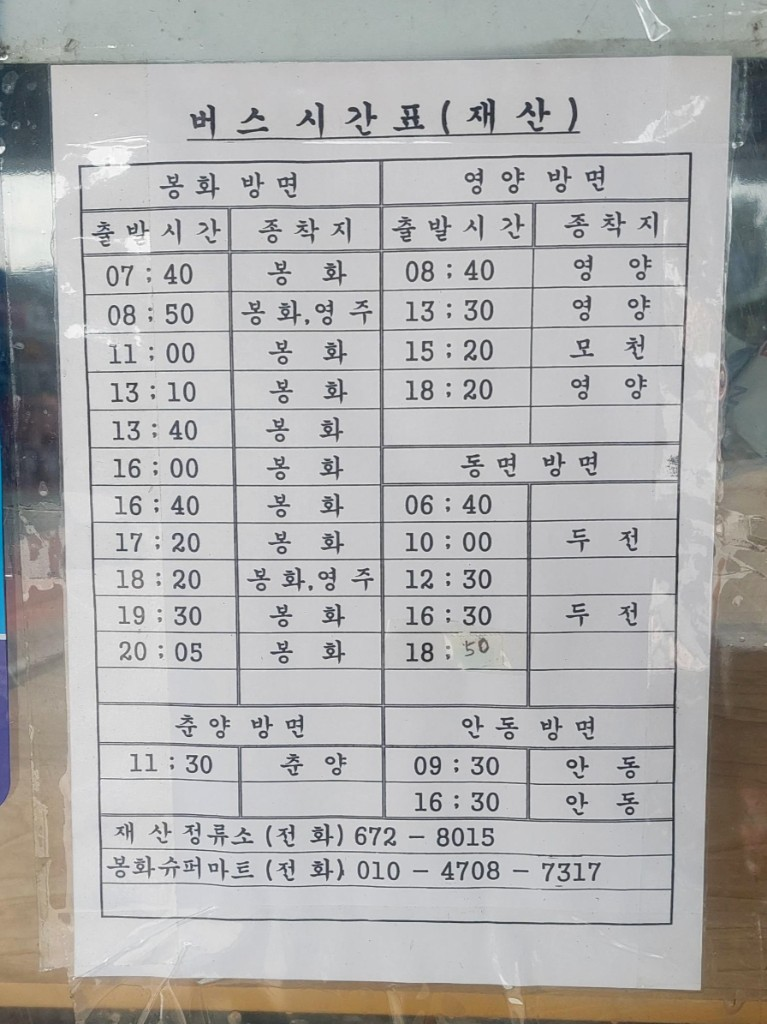
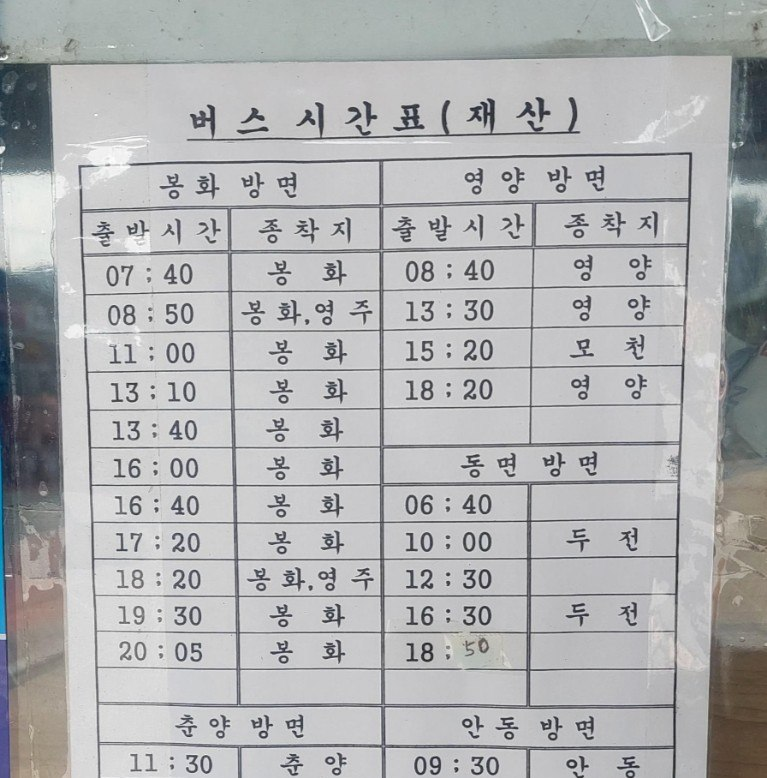
가이드 샘플 연락처 제거, OCR 전화·정류소 하단 줄 비표시
샘플 사진 하단을 잘라 내고, 시간표 화면에서 전화·연락 메타 줄을 숨긴다.

diff --git a/js/app.js b/js/app.js
@@ -637,12 +637,24 @@ function isTableColumnHeader(line) {
 }
 
 function isContactMetaLine(line) {
-  return (
-    /\(전화\)/.test(line) ||
-    /정류소/.test(line) ||
-    /010[\s\-·]?\d{4}/.test(line) ||
-    /슈퍼|마트/.test(line)
-  );
+  const t = String(line).trim();
+  if (!t) return false;
+  if (/\(전화\)|전화\s*[:：]/.test(t)) return true;
+  if (/010[\s\-·]?\d{4}/.test(t)) return true;
+  if (/\d{2,4}\s*[-·．]\s*\d{3,4}/.test(t) && /정류|마트|슈퍼|문의|택시|운수/.test(t)) {
+    return true;
+  }
+  if (/정류소|슈퍼\s*마트|봉화\s*슈퍼/.test(t) && /\d/.test(t)) return true;
+  return false;
+}
+
+function stripPrivacyFromSections(sections) {
+  return sections
+    .map((block) => ({
+      ...block,
+      lines: (block.lines || []).filter((line) => !isContactMetaLine(line)),
+    }))
+    .filter((block) => block.title || block.lines.length);
 }
 
 /** @param {string} line */
@@ -717,7 +729,7 @@ function getStopSections(stop) {
     : stop.sections?.length
       ? stop.sections
       : [];
-  return normalizeSectionsForDisplay(built);
+  return stripPrivacyFromSections(normalizeSectionsForDisplay(built));
 }
 
 /** @param {string} line */

diff --git a/index.html b/index.html
@@ -61,8 +61,7 @@
               alt="촬영 예시: 정류장 시간표 전체가 화면에 들어오고 시각·글자가 크게 보이는 사진"
             />
             <figcaption>
-              예시: 표 <strong>전체</strong>가 들어오고, 시각·글자가 <strong>크게</strong>
-              보일 때
+              예시: 시각표 부분만 크게. 아래 연락처·전화는 <strong>넣지 않습니다</strong>.
             </figcaption>
           </figure>
           <ul class="home-more-list">
